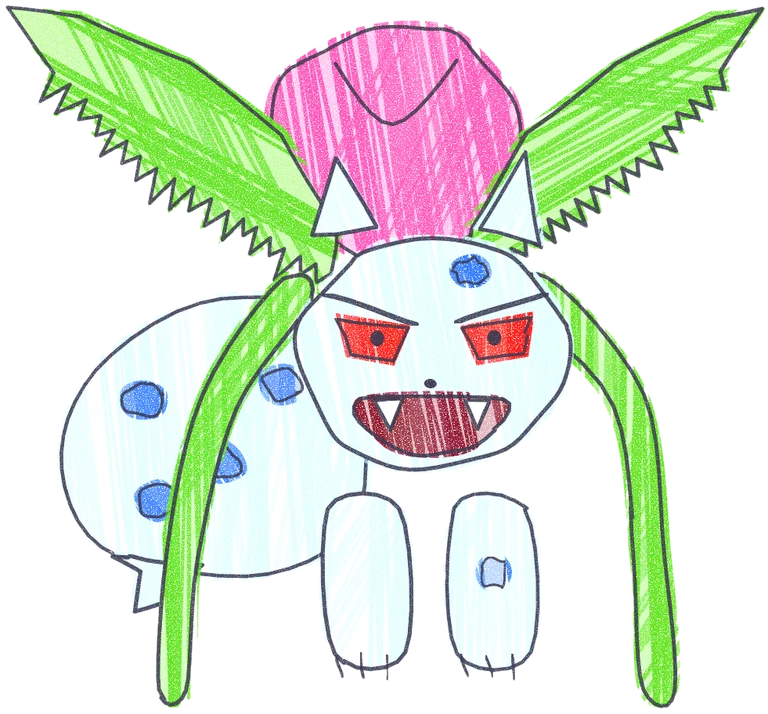
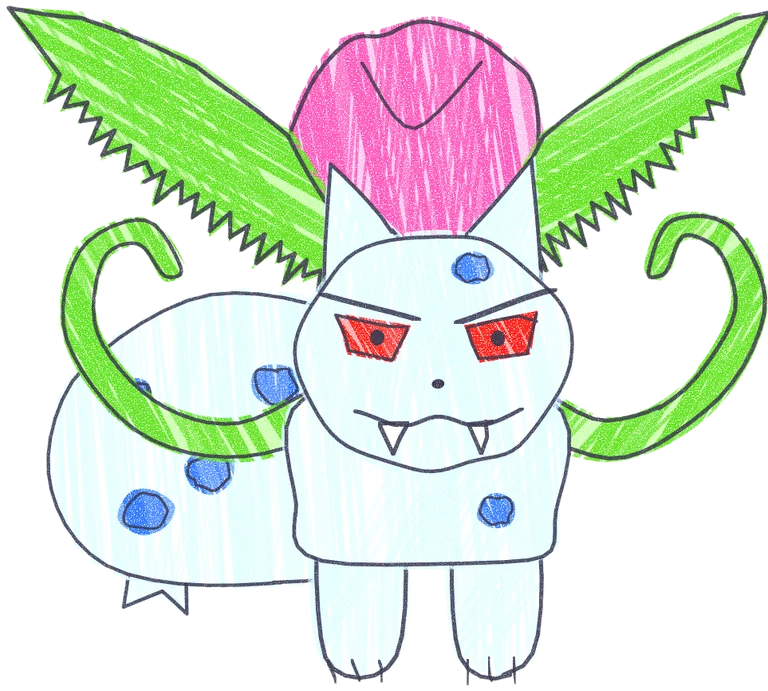
Minoufleur: ears and legs joined to the body, coiled vines, a shut snarl

diff --git a/tools/redraws/minoufleur.ts b/tools/redraws/minoufleur.ts
@@ -9,38 +9,40 @@ export default {
   draw(c) {
     const { shape, stroke, dot, spikes, potato, band } = c;
     const PALE = '#cfe6f7', SPOT = '#3e6fd0', PINK = '#ef5f9e', GREEN = '#6cc23a', RED = '#e8302c';
-    // the body behind, to the left, with its spots and a clawed back foot
-    shape([[140, 520], [300, 430], [460, 470], [480, 700], [360, 780], [170, 760], [100, 650]], PALE, { angle: 85, over: 0.5 });
-    for (const [x, y] of [[200, 560], [300, 640], [380, 540], [220, 690]]) shape(potato(x, y, 26, 22, 6, 0.15), SPOT, { over: 0 }, { w: 3.5 });
-    shape(spikes([[160, 760], [190, 830], [260, 840], [280, 770]], 1, -18), PALE, { over: 0 }, {}, false);
+    // the body behind, to the left, joined to the chest, a clawed back foot
+    shape(spikes([[170, 740], [190, 820], [270, 830], [300, 750]], 1, -18), PALE, { over: 0 }, {}, false);
+    shape([[140, 520], [300, 430], [480, 460], [560, 600], [520, 760], [360, 790], [170, 770], [100, 650]], PALE, { angle: 85, over: 0.5 });
+    for (const [x, y] of [[200, 560], [300, 650], [380, 540], [220, 700]]) shape(potato(x, y, 26, 22, 6, 0.15), SPOT, { over: 0 }, { w: 3.5 });
+    // vines coiled like whips, ready to strike
+    shape(band([[470, 560], [340, 610], [220, 580], [140, 480], [150, 380], [215, 350], [255, 400]], 50, 22), GREEN, { angle: 60, press: 1.1 });
+    shape(band([[680, 560], [800, 610], [910, 560], [975, 450], [950, 360], [885, 345], [860, 400]], 50, 22), GREEN, { angle: 120, press: 1.1 });
+    // front legs, clawed, under a solid chest
+    shape([[440, 680], [530, 680], [535, 880], [445, 885]], PALE, { angle: 90 });
+    shape([[610, 680], [700, 680], [705, 880], [615, 885]], PALE, { angle: 90 });
+    for (const x of [450, 480, 510, 620, 650, 680]) stroke([[x, 885], [x + 6, 915]], { w: 4 });
+    shape([[420, 560], [720, 560], [735, 700], [700, 760], [440, 760], [410, 690]], PALE, { angle: 85, over: 0.4 });
+    shape(potato(660, 700, 20, 18, 6, 0.1), SPOT, { over: 0 }, { w: 3 });
     // the big pink bud
-    shape(potato(520, 230, 160, 150, 13, 0.05), PINK, { angle: 80, over: 0.6, press: 1.1 });
-    stroke([[450, 130], [520, 210], [600, 125]], { w: 4.5 });
+    shape(potato(560, 240, 160, 150, 13, 0.05), PINK, { angle: 80, over: 0.6, press: 1.1 });
+    stroke([[490, 140], [560, 220], [640, 135]], { w: 4.5 });
     // jagged leaves raised like jaws, teeth along their inside edge
-    shape(([[450, 340], [380, 220], [260, 130], [120, 70], [30, 60], [90, 140]] as P[]).concat(spikes([[90, 140], [200, 250], [330, 330], [440, 400]], 6, 30)), GREEN, { angle: 30, press: 1.15, over: 0.5 }, {}, false);
-    shape(([[620, 340], [690, 220], [810, 130], [930, 70], [990, 60], [940, 140]] as P[]).concat(spikes([[940, 140], [830, 250], [720, 330], [620, 400]], 6, -30)), GREEN, { angle: 150, press: 1.15, over: 0.5 }, {}, false);
-    // long leafy vines hanging to the ground
-    shape(band([[400, 420], [300, 560], [250, 760], [240, 930]], 46, 38), GREEN, { angle: 90 });
-    shape(band([[700, 420], [820, 560], [850, 760], [860, 930]], 46, 38), GREEN, { angle: 90 });
-    // front legs, clawed
-    shape([[440, 700], [530, 700], [535, 880], [445, 885]], PALE, { angle: 90 });
-    shape([[600, 700], [690, 700], [695, 880], [605, 885]], PALE, { angle: 90 });
-    for (const x of [450, 480, 510, 610, 640, 670]) stroke([[x, 885], [x + 6, 915]], { w: 4 });
-    shape(potato(650, 780, 18, 18, 6, 0.1), SPOT, { over: 0 }, { w: 3 });
-    // the head in front, cat ears, fierce red eyes, a snarl with fangs
-    shape([[420, 350], [450, 250], [500, 340]], PALE, { angle: 70 }, {}, false);
-    shape([[630, 340], [690, 245], [710, 360]], PALE, { angle: 110 }, {}, false);
-    shape(potato(570, 500, 170, 150, 13, 0.04), PALE, { angle: 80, over: 0.5 });
-    shape(potato(620, 395, 22, 16, 7, 0.1), SPOT, { over: 0 }, { w: 3 });
-    shape([[450, 455], [540, 470], [520, 510], [465, 500]], RED, { over: 0, press: 1.2 }, { w: 4 }, false);
-    shape([[610, 470], [700, 452], [690, 500], [630, 510]], RED, { over: 0, press: 1.2 }, { w: 4 }, false);
-    dot(500, 482, 9, 10);
-    dot(650, 482, 9, 10);
-    stroke([[430, 425], [550, 462]], { w: 7 });
-    stroke([[600, 462], [720, 422]], { w: 7 });
-    shape([[480, 560], [660, 560], [630, 615], [570, 630], [510, 615]], '#7a2430', { over: 0 }, { w: 4.5 });
-    c.paper([[495, 560], [515, 600], [532, 560]], {}, false);
-    c.paper([[610, 560], [627, 600], [645, 560]], {}, false);
-    dot(570, 540, 8, 6);
+    shape(([[470, 350], [400, 230], [280, 140], [140, 80], [50, 70], [110, 150]] as P[]).concat(spikes([[110, 150], [220, 260], [350, 340], [460, 410]], 6, 30)), GREEN, { angle: 30, press: 1.15, over: 0.5 }, {}, false);
+    shape(([[650, 350], [720, 230], [840, 140], [960, 80], [1000, 75], [960, 150]] as P[]).concat(spikes([[960, 150], [850, 260], [740, 340], [650, 410]], 6, -30)), GREEN, { angle: 150, press: 1.15, over: 0.5 }, {}, false);
+    // cat ears, their base hidden in the head
+    shape([[445, 440], [450, 265], [560, 380]], PALE, { angle: 70 }, {}, false);
+    shape([[600, 380], [705, 260], [715, 440]], PALE, { angle: 110 }, {}, false);
+    // the head in front: fierce red eyes under frowning brows, a shut mouth with two fangs
+    shape(potato(580, 500, 170, 150, 13, 0.04), PALE, { angle: 80, over: 0.5 });
+    shape(potato(630, 395, 22, 16, 7, 0.1), SPOT, { over: 0 }, { w: 3 });
+    shape([[460, 455], [550, 470], [530, 510], [475, 500]], RED, { over: 0, press: 1.2 }, { w: 4 }, false);
+    shape([[620, 470], [710, 452], [700, 500], [640, 510]], RED, { over: 0, press: 1.2 }, { w: 4 }, false);
+    dot(510, 482, 9, 10);
+    dot(660, 482, 9, 10);
+    stroke([[440, 425], [560, 462]], { w: 7 });
+    stroke([[610, 462], [730, 422]], { w: 7 });
+    dot(585, 540, 8, 6);
+    c.paper([[512, 588], [528, 628], [544, 590]], {}, false);
+    c.paper([[622, 590], [638, 630], [654, 588]], {}, false);
+    stroke([[480, 575], [535, 592], [585, 582], [635, 592], [690, 572]], { w: 5.5 });
   },
 } satisfies Redraw;
